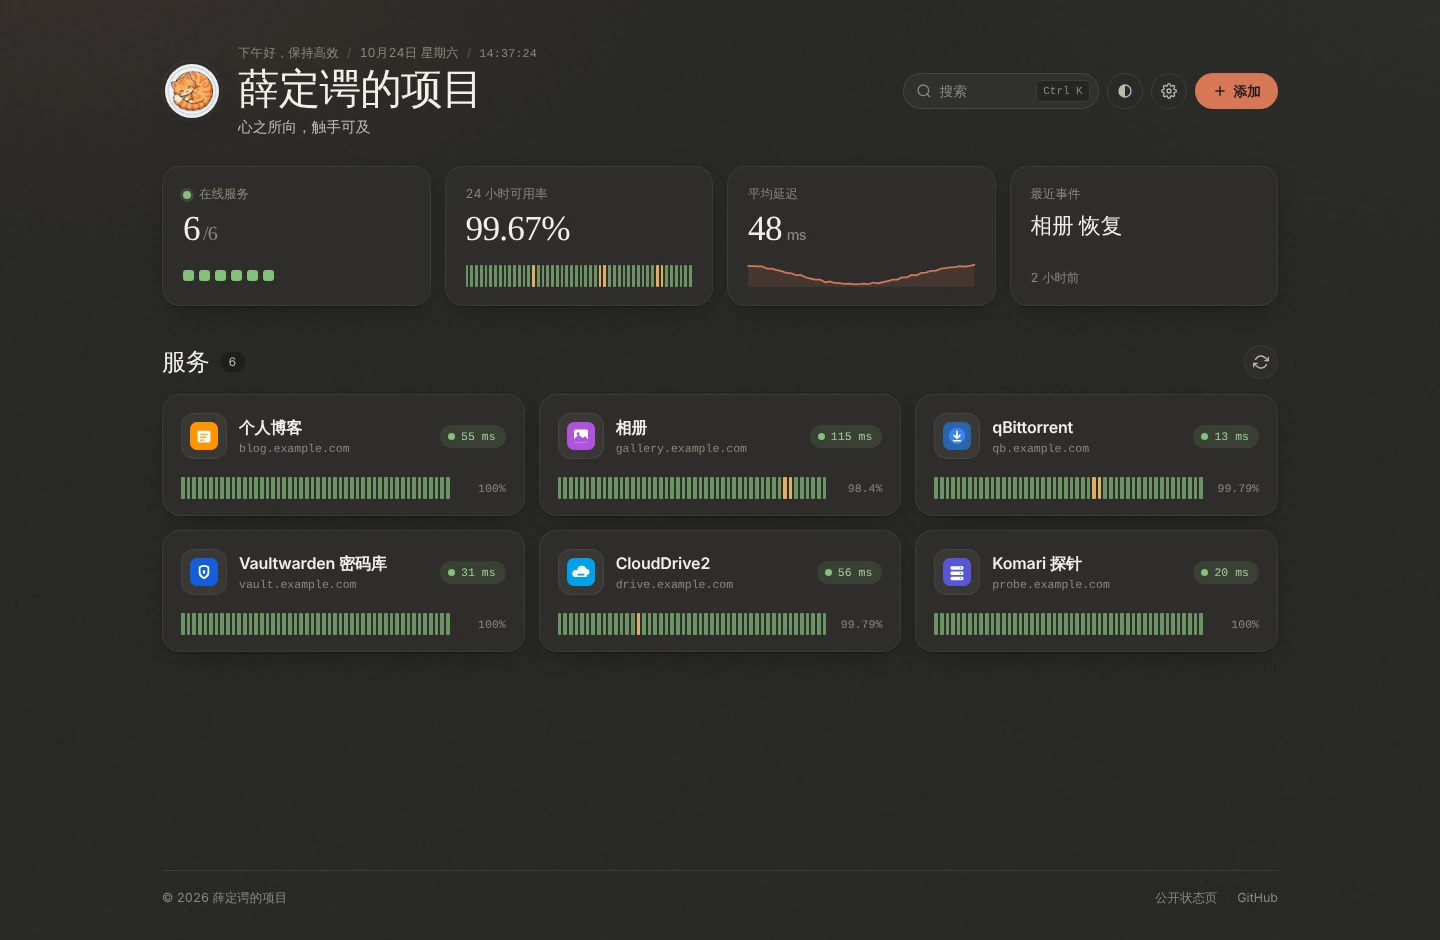
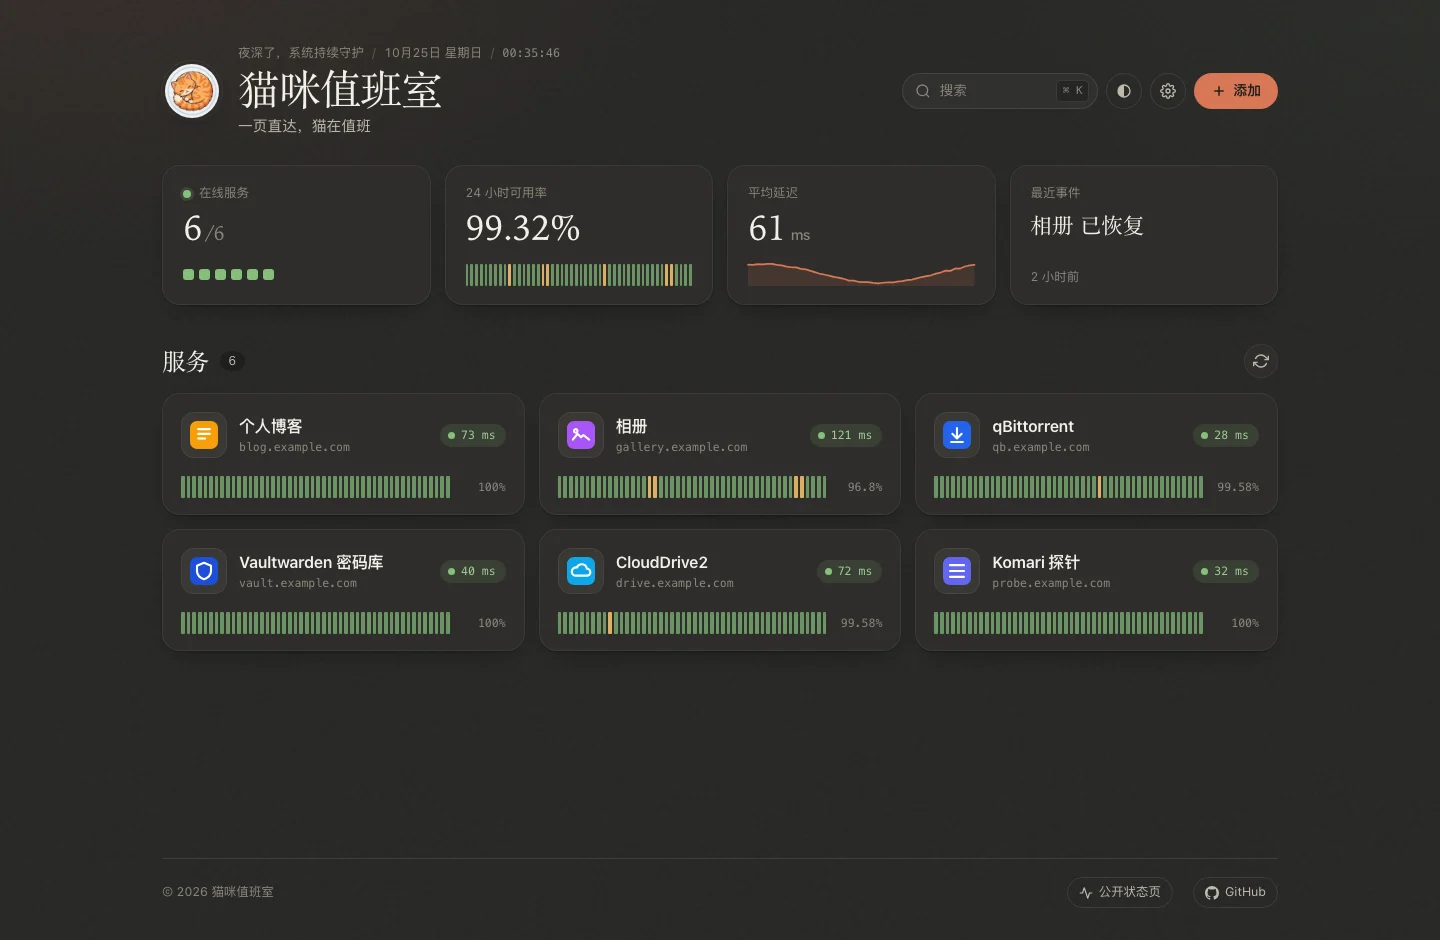
chore: rename to 猫咪值班室 (CatWatch)
The old name came from a joke about Schrödinger's cat and said nothing
about what the app does. The new one keeps the cat and says the job:
a cat on duty watching every service.

- Page titles, header, footer, status page, notifications, user agent,
  package/compose/image names and README now say 猫咪值班室 / CatWatch.
- Default subtitle becomes 一页直达，猫在值班. Browsers that saved the old
  default title/subtitle are migrated; custom ones are left alone.
- localStorage keys keep their old names so saved settings and the admin
  login survive the rename.
- README screenshots re-rendered from the demo setup with the new name.

diff --git a/index.html b/index.html
@@ -3,12 +3,12 @@
 <head>
   <meta charset="UTF-8" />
   <meta name="viewport" content="width=device-width, initial-scale=1.0, maximum-scale=5.0, viewport-fit=cover" />
-  <title>薛定谔的项目</title>
-  <meta name="description" content="薛定谔的项目 · 心之所向，触手可及" />
+  <title>猫咪值班室</title>
+  <meta name="description" content="猫咪值班室 · 常用服务一页直达，在线状态有猫值班" />
   
   <meta name="apple-mobile-web-app-capable" content="yes" />
   <meta name="apple-mobile-web-app-status-bar-style" content="default" />
-  <meta name="apple-mobile-web-app-title" content="薛定谔的项目" />
+  <meta name="apple-mobile-web-app-title" content="猫咪值班室" />
   <meta name="theme-color" content="#f0eee6" media="(prefers-color-scheme: light)" />
   <meta name="theme-color" content="#262624" media="(prefers-color-scheme: dark)" />
 
@@ -50,8 +50,8 @@
           <p class="masthead-eyebrow">
             <span id="greetingText">欢迎回来</span><span class="eyebrow-sep" aria-hidden="true">/</span><span id="clockDate"></span><span class="eyebrow-clock"><span class="eyebrow-sep" aria-hidden="true">/</span><span id="clockTime" class="clock-time"></span></span>
           </p>
-          <h1 class="brand-title" id="headerTitle">薛定谔的项目</h1>
-          <p class="brand-subtitle" id="headerSubtitle">心之所向，触手可及</p>
+          <h1 class="brand-title" id="headerTitle">猫咪值班室</h1>
+          <p class="brand-subtitle" id="headerSubtitle">一页直达，猫在值班</p>
         </div>
       </div>
 
@@ -104,14 +104,14 @@
 
     <footer class="app-footer">
       <div class="footer-content">
-        <span class="footer-copy">© 2026 薛定谔的项目</span>
+        <span class="footer-copy">© 2026 猫咪值班室</span>
         <a href="/status" class="footer-link" target="_blank" rel="noopener" title="分享给他人的只读状态页">
           <svg class="footer-icon" viewBox="0 0 24 24" fill="none" stroke="currentColor" stroke-width="2" stroke-linecap="round" stroke-linejoin="round" aria-hidden="true">
             <polyline points="22 12 18 12 15 21 9 3 6 12 2 12"></polyline>
           </svg>
           <span>公开状态页</span>
         </a>
-        <a href="https://github.com/uncat2310/schrodinger-portal" target="_blank" rel="noreferrer" class="footer-link" id="footerGithubLink">
+        <a href="https://github.com/uncat2310/catwatch" target="_blank" rel="noreferrer" class="footer-link" id="footerGithubLink">
           <svg class="footer-icon" viewBox="0 0 16 16" fill="currentColor" aria-hidden="true">
             <path d="M8 0C3.58 0 0 3.58 0 8c0 3.54 2.29 6.53 5.47 7.59.4.07.55-.17.55-.38 0-.19-.01-.82-.01-1.49-2.01.37-2.53-.49-2.69-.94-.09-.23-.48-.94-.82-1.13-.28-.15-.68-.52-.01-.53.63-.01 1.08.58 1.23.82.72 1.21 1.87.87 2.33.66.07-.52.28-.87.51-1.07-1.78-.2-3.64-.89-3.64-3.95 0-.87.31-1.59.82-2.15-.08-.2-.36-1.02.08-2.12 0 0 .67-.21 2.2.82.64-.18 1.32-.27 2-.27.68 0 1.36.09 2 .27 1.53-1.04 2.2-.82 2.2-.82.44 1.1.16 1.92.08 2.12.51.56.82 1.27.82 2.15 0 3.07-1.87 3.75-3.65 3.95.29.25.54.73.54 1.48 0 1.07-.01 1.93-.01 2.2 0 .21.15.46.55.38A8.013 8.013 0 0016 8c0-4.42-3.58-8-8-8z"></path>
           </svg>
@@ -206,11 +206,11 @@
           <div class="form-row form-row-2">
             <div class="form-group">
               <label for="cfgTitle" class="form-label">主页名称</label>
-              <input type="text" id="cfgTitle" class="form-input" value="薛定谔的项目" />
+              <input type="text" id="cfgTitle" class="form-input" value="猫咪值班室" />
             </div>
             <div class="form-group">
               <label for="cfgSubtitle" class="form-label">副标题标语</label>
-              <input type="text" id="cfgSubtitle" class="form-input" value="心之所向，触手可及" />
+              <input type="text" id="cfgSubtitle" class="form-input" value="一页直达，猫在值班" />
             </div>
           </div>
         </div>

diff --git a/src/app.js b/src/app.js
@@ -16,9 +16,11 @@ import {
 import { isValidHttpUrl, parseHttpUrl } from '../shared/url.js';
 import { renderUptimeInner, renderUptimeStrip } from '../shared/uptime.js';
 
+// 存储键沿用改名前的名字，已保存的设置和管理登录不会丢
 const STORAGE_KEY = 'SCHRODINGER_PORTAL';
 const LEGACY_STORAGE_KEY = 'SCHRODINGER_PORTAL_V18';
 const ADMIN_TOKEN_KEY = 'SCHRODINGER_PORTAL_ADMIN_TOKEN';
+const LEGACY_DEFAULT_PROFILE = { title: '薛定谔的项目', subtitle: '心之所向，触手可及' };
 const SCHEMA_VERSION = 1;
 const HISTORY_REFRESH_MS = 60 * 1000;
 
@@ -129,6 +131,13 @@ class App {
           this.config.projects = ssrProjects || DEFAULT_CONFIG.projects;
         }
         if (!this.config.profile) this.config.profile = DEFAULT_CONFIG.profile;
+        // 改名前保存下来的默认标题 / 标语跟着换成新名字；用户自定义过的不动
+        if (this.config.profile.title === LEGACY_DEFAULT_PROFILE.title) {
+          this.config.profile.title = DEFAULT_CONFIG.profile.title;
+        }
+        if (this.config.profile.subtitle === LEGACY_DEFAULT_PROFILE.subtitle) {
+          this.config.profile.subtitle = DEFAULT_CONFIG.profile.subtitle;
+        }
         if (!this.config.settings) this.config.settings = DEFAULT_CONFIG.settings;
         this.config.categories = DEFAULT_CONFIG.categories;
         this.config.schemaVersion = SCHEMA_VERSION;
@@ -626,9 +635,9 @@ class App {
     const p = this.config.profile;
     const headerTitle = document.getElementById('headerTitle');
     const headerSubtitle = document.getElementById('headerSubtitle');
-    if (headerTitle) headerTitle.textContent = p.title || '薛定谔的项目';
+    if (headerTitle) headerTitle.textContent = p.title || DEFAULT_CONFIG.profile.title;
     if (headerSubtitle) {
-      headerSubtitle.textContent = p.subtitle || '心之所向，触手可及';
+      headerSubtitle.textContent = p.subtitle || DEFAULT_CONFIG.profile.subtitle;
       this.subtitleRevealed = false;
       this.revealSubtitleOnce();
     }
@@ -1144,8 +1153,8 @@ class App {
     const p = this.config.profile;
     const cfgTitle = document.getElementById('cfgTitle');
     const cfgSubtitle = document.getElementById('cfgSubtitle');
-    if (cfgTitle) cfgTitle.value = p.title || '薛定谔的项目';
-    if (cfgSubtitle) cfgSubtitle.value = p.subtitle || '心之所向，触手可及';
+    if (cfgTitle) cfgTitle.value = p.title || DEFAULT_CONFIG.profile.title;
+    if (cfgSubtitle) cfgSubtitle.value = p.subtitle || DEFAULT_CONFIG.profile.subtitle;
     this.renderAdminStatus();
     this.openOverlay('settingsModalOverlay', '#cfgTitle');
   }
@@ -1157,8 +1166,8 @@ class App {
   saveSettings() {
     const cfgTitle = document.getElementById('cfgTitle');
     const cfgSubtitle = document.getElementById('cfgSubtitle');
-    if (cfgTitle) this.config.profile.title = cfgTitle.value.trim() || '薛定谔的项目';
-    if (cfgSubtitle) this.config.profile.subtitle = cfgSubtitle.value.trim() || '心之所向，触手可及';
+    if (cfgTitle) this.config.profile.title = cfgTitle.value.trim() || DEFAULT_CONFIG.profile.title;
+    if (cfgSubtitle) this.config.profile.subtitle = cfgSubtitle.value.trim() || DEFAULT_CONFIG.profile.subtitle;
     this.persistState();
     this.renderHeader();
     this.closeSettingsModal();
@@ -1176,5 +1185,5 @@ class App {
 }
 
 window.addEventListener('DOMContentLoaded', () => {
-  window.schrodingerPortal = new App();
+  window.catWatch = new App();
 });

diff --git a/status.html b/status.html
@@ -3,8 +3,8 @@
 <head>
   <meta charset="UTF-8" />
   <meta name="viewport" content="width=device-width, initial-scale=1.0, maximum-scale=5.0, viewport-fit=cover" />
-  <title>服务状态 · 薛定谔的项目</title>
-  <meta name="description" content="薛定谔的项目 · 公开服务状态" />
+  <title>服务状态 · 猫咪值班室</title>
+  <meta name="description" content="猫咪值班室 · 公开服务状态" />
   <meta name="theme-color" content="#f0eee6" media="(prefers-color-scheme: light)" />
   <meta name="theme-color" content="#262624" media="(prefers-color-scheme: dark)" />
   <link rel="icon" type="image/svg+xml" href="/favicon.svg" />
@@ -31,7 +31,7 @@
 <body>
   <div class="app-container status-container">
     <header class="status-header">
-      <p class="masthead-eyebrow">薛定谔的项目<span class="eyebrow-sep" aria-hidden="true">/</span>公开状态</p>
+      <p class="masthead-eyebrow">猫咪值班室<span class="eyebrow-sep" aria-hidden="true">/</span>公开状态</p>
       <h1 class="brand-title">服务状态</h1>
     </header>
 
@@ -39,7 +39,7 @@
 
     <footer class="app-footer">
       <div class="footer-content">
-        <span class="footer-copy">薛定谔的项目</span>
+        <span class="footer-copy">猫咪值班室</span>
         <span id="statusUpdated"></span>
       </div>
     </footer>

diff --git a/server.js b/server.js
@@ -345,7 +345,7 @@ async function probeHttpEndpoint(targetUrl, options = {}) {
           servername: hostname,
           headers: {
             Host: parsed.host,
-            'User-Agent': 'SchrodingerPortal/1.0 (+health-probe)',
+            'User-Agent': 'CatWatch/1.0 (+health-probe)',
             Accept: '*/*'
           }
         };
@@ -1247,7 +1247,7 @@ const server = http.createServer(async (req, res) => {
 });
 
 server.listen(PORT, '0.0.0.0', () => {
-  console.log(`Schrödinger's Portal listening on :${PORT}`);
+  console.log(`CatWatch listening on :${PORT}`);
   console.log(`Admin editing: ${ADMIN_TOKEN ? 'enabled' : 'disabled (set ADMIN_TOKEN to enable)'}`);
   console.log(`Notify channels: ${notifier.channels.length ? notifier.channels.join(', ') : 'none'}`);
 });

diff --git a/lib/notify.js b/lib/notify.js
@@ -14,7 +14,7 @@ const NOTIFY_TIMEOUT_MS = 6000;
 
 export function formatEventMessage(event) {
   if (event.type === 'test') {
-    return { title: '薛定谔的项目 · 测试通知', body: '通知通道工作正常。' };
+    return { title: '猫咪值班室 · 测试通知', body: '通知通道工作正常。' };
   }
   if (event.type === 'down') {
     return {
@@ -60,7 +60,7 @@ export function createNotifier(env = process.env) {
       send: ({ title, body }) =>
         post(env.BARK_URL.replace(/\/+$/, ''), {
           headers: { 'Content-Type': 'application/json; charset=utf-8' },
-          body: JSON.stringify({ title, body, group: 'schrodinger-portal' })
+          body: JSON.stringify({ title, body, group: 'catwatch' })
         })
     });
   }

diff --git a/src/data/defaultConfig.js b/src/data/defaultConfig.js
@@ -1,11 +1,11 @@
 /**
- * 薛定谔的项目 · 开源标准预设配置 (公开演示 Demo 矩阵)
+ * 猫咪值班室 · 开源标准预设配置 (公开演示 Demo 矩阵)
  * 仅包含公开通用示例，无任何私有 IP 或个人隐私域名
  */
 export const DEFAULT_CONFIG = {
   profile: {
-    title: "薛定谔的项目",
-    subtitle: "心之所向，触手可及",
+    title: "猫咪值班室",
+    subtitle: "一页直达，猫在值班",
     avatar: "/avatar.jpg",
     wanDomain: "example.com"
   },

diff --git a/lib/fetch.js b/lib/fetch.js
@@ -59,7 +59,7 @@ function requestOnce(target, { maxBytes, timeoutMs, insecureTls, accept, truncat
         lookup: createPinnedLookup(target.address, target.family),
         headers: {
           Host: parsed.host,
-          'User-Agent': 'SchrodingerPortal/1.0 (+icon-fetch)',
+          'User-Agent': 'CatWatch/1.0 (+icon-fetch)',
           Accept: accept
         }
       },

diff --git a/src/style.css b/src/style.css
@@ -1,5 +1,5 @@
 /* ==========================================================================
-   薛定谔的项目 · 观测台
+   猫咪值班室 · 观测台
    纸与墨两种颜色，状态色只用来表达信号
    ========================================================================== */
 

diff --git a/README.md b/README.md
@@ -1,6 +1,6 @@
 <div align="center">
 
-# 🐱 薛定谔的项目 (Schrödinger's Portal)
+# 🐱 猫咪值班室 (CatWatch)
 
 **温暖的自托管导航页，顺便替你盯着每一个服务**
 
@@ -8,7 +8,7 @@
 [![Node.js Version](https://img.shields.io/badge/Node.js-18%2B-brightgreen.svg)](https://nodejs.org)
 [![Docker](https://img.shields.io/badge/Docker-Ready-2496ed.svg)](https://www.docker.com/)
 
-*心之所向，触手可及。*
+*一页直达，猫在值班。*
 
 <br/>
 
@@ -35,9 +35,9 @@
 
 ## 📖 简介
 
-薛定谔的猫在打开盒子之前，谁也不知道它是死是活——你的自建服务也一样。
+自建服务一多，地址记不住，挂了也不知道。那就请一只猫来值班：它把所有服务摆在一页上，每隔几秒挨个看一眼，谁掉线了就喊你。
 
-**薛定谔的项目**是一个轻量的个人服务器导航页：把常用服务聚合成一页，同时由服务端持续探测、记录 24 小时可用率，服务掉线或恢复时推送通知，还可以生成一个只读的公开状态页分享给朋友。
+**猫咪值班室**是一个轻量的个人服务器导航页：把常用服务聚合成一页，同时由服务端持续探测、记录 24 小时可用率，服务掉线或恢复时推送通知，还可以生成一个只读的公开状态页分享给朋友。
 
 - **一个容器搞定**：Node.js + Vite + 原生 JavaScript，无数据库、无前端框架
 - **数据都是文件**：服务列表是 `config/projects.json`，历史和图标缓存在 `data/` 目录
@@ -63,17 +63,17 @@
 ### Docker（推荐）
 
 ```bash
-mkdir -p schrodinger-portal/config schrodinger-portal/data && cd schrodinger-portal
+mkdir -p catwatch/config catwatch/data && cd catwatch
 sudo chown -R 1000:1000 config data     # 容器内以 node 用户 (uid 1000) 运行，需要写权限
 
 docker run -d \
-  --name schrodinger-portal \
+  --name catwatch \
   --restart unless-stopped \
   -p 3000:3000 \
   -e ADMIN_TOKEN="换成一串足够长的随机字符串" \
   -v "$PWD/config:/app/config" \
   -v "$PWD/data:/app/data" \
-  ghcr.io/uncat2310/schrodinger-portal:latest
+  ghcr.io/uncat2310/catwatch:latest
 ```
 
 然后：
@@ -87,8 +87,8 @@ docker run -d \
 ### Docker Compose
 
 ```bash
-git clone https://github.com/uncat2310/schrodinger-portal.git
-cd schrodinger-portal
+git clone https://github.com/uncat2310/catwatch.git
+cd catwatch
 docker compose up -d
 ```
 
@@ -111,44 +111,44 @@ PM2：
 
 ```bash
 npm install -g pm2
-ADMIN_TOKEN="你的口令" pm2 start server.js --name "schrodinger-portal"
+ADMIN_TOKEN="你的口令" pm2 start server.js --name "catwatch"
 pm2 save
 ```
 
 systemd（生产环境建议用独立的非 root 用户运行）：
 
 ```bash
-sudo useradd --system --home /srv/schrodinger-portal --shell /usr/sbin/nologin schrodinger
-sudo chown -R schrodinger:schrodinger /srv/schrodinger-portal
+sudo useradd --system --home /srv/catwatch --shell /usr/sbin/nologin catwatch
+sudo chown -R catwatch:catwatch /srv/catwatch
 
-cat >/etc/systemd/system/schrodinger-portal.service <<'EOF'
+cat >/etc/systemd/system/catwatch.service <<'EOF'
 [Unit]
-Description=Schrodinger Portal - Service Navigation and Health Probe
+Description=CatWatch - Service Navigation and Health Probe
 After=network.target
 
 [Service]
 Type=simple
-User=schrodinger
-Group=schrodinger
-WorkingDirectory=/srv/schrodinger-portal
-ExecStart=/usr/bin/node /srv/schrodinger-portal/server.js
+User=catwatch
+Group=catwatch
+WorkingDirectory=/srv/catwatch
+ExecStart=/usr/bin/node /srv/catwatch/server.js
 Restart=always
 RestartSec=5
 Environment=PORT=3000
 Environment=NODE_ENV=production
-EnvironmentFile=-/etc/schrodinger-portal.env
+EnvironmentFile=-/etc/catwatch.env
 
 [Install]
 WantedBy=multi-user.target
 EOF
 
 # 口令和通知变量放在单独的文件里，权限设为仅 root 可读
-echo 'ADMIN_TOKEN=你的口令' | sudo tee /etc/schrodinger-portal.env
-sudo chmod 600 /etc/schrodinger-portal.env
+echo 'ADMIN_TOKEN=你的口令' | sudo tee /etc/catwatch.env
+sudo chmod 600 /etc/catwatch.env
 
 systemctl daemon-reload
-systemctl enable --now schrodinger-portal.service
-journalctl -u schrodinger-portal -f
+systemctl enable --now catwatch.service
+journalctl -u catwatch -f
 ```
 
 </details>
@@ -296,8 +296,8 @@ portal.example.com {
 ## 🔄 升级
 
 ```bash
-docker pull ghcr.io/uncat2310/schrodinger-portal:latest
-docker stop schrodinger-portal && docker rm schrodinger-portal
+docker pull ghcr.io/uncat2310/catwatch:latest
+docker stop catwatch && docker rm catwatch
 # 再执行一遍「快速开始」里的 docker run（保持同样的 -e 和 -v 参数）
 ```
 
@@ -376,7 +376,7 @@ npm run build && npm start   # 完整运行
 ```
 
 ```text
-schrodinger-portal/
+catwatch/
 ├── index.html / status.html     # 主页 / 公开状态页
 ├── server.js                    # 静态服务 + 服务端预渲染 + API + 后台探测
 ├── lib/                         # 服务端模块
